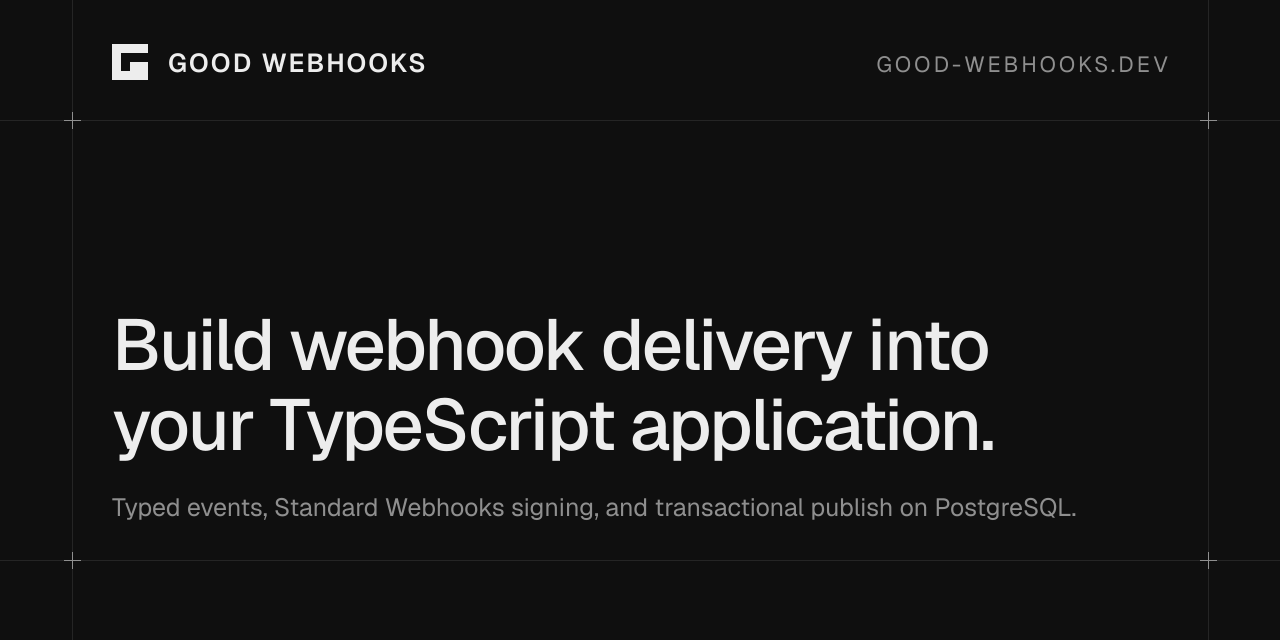
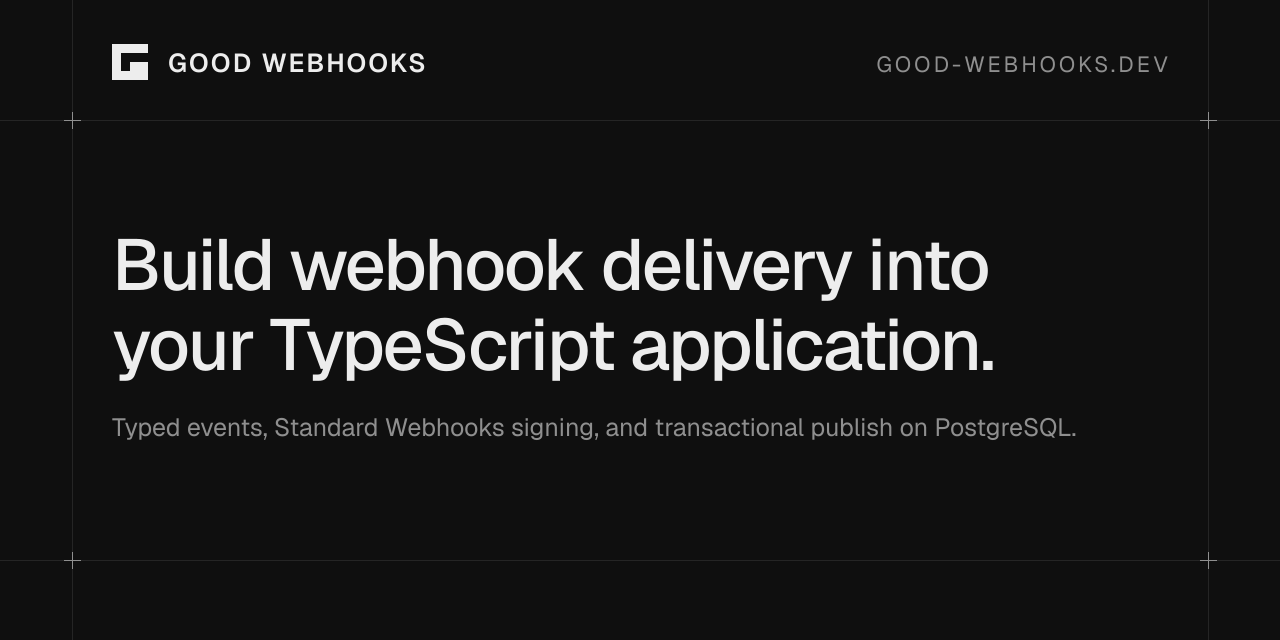
Center the social card text between the frame rules (#57)
Site cards and the GitHub social preview center the title and description between the frame rules, clear of X's bottom caption. ogRevision moves to 3 so platforms fetch the new cards.

diff --git a/apps/docs/scripts/build-social.ts b/apps/docs/scripts/build-social.ts
@@ -2,7 +2,7 @@
  * Draws the repository's GitHub social preview, `.github/social-preview.png`, at GitHub's
  * recommended 1280 by 640: the same framed card as the site's social images (`lib/og.tsx`),
  * with hairline rails and rules, crosshairs where they cross, the mark and wordmark, then the
- * tagline. GitHub has no API for this image, so upload the file under Settings, General, Social
+ * tagline centered between the rules. GitHub has no API for this image, so upload the file under Settings, General, Social
  * preview. Run with `pnpm build:social`; text uses Geist when installed.
  */
 import { writeFile } from 'node:fs/promises'
@@ -18,6 +18,8 @@ const left = 72
 const right = width - 72
 const top = 120
 const bottom = height - 80
+// First tagline baseline that centers the tagline and description between the rules.
+const baseline = (top + bottom) / 2 - 50
 
 /** The tagline on two lines, broken at the word nearest its middle. */
 function twoLines(text: string): [string, string] {
@@ -32,7 +34,7 @@ function twoLines(text: string): [string, string] {
 }
 
 const [first, second] = twoLines(site.description)
-// The same description as the site's root social card, app/opengraph-image.tsx.
+// The same description as the site's root social card, app/og/image.png/route.tsx.
 const description =
   'Typed events, Standard Webhooks signing, and transactional publish on PostgreSQL.'
 
@@ -47,10 +49,10 @@ const svg = `<svg xmlns="http://www.w3.org/2000/svg" width="${width}" height="${
   <text x="${left + 96}" y="72" font-family="${sans}" font-size="26" font-weight="600" letter-spacing="2" fill="${colors.ink}">${site.name.toUpperCase()}</text>
   <text x="${right - 40}" y="72" text-anchor="end" font-family="${sans}" font-size="22" letter-spacing="3" fill="${colors.mark}">${new URL(site.url).host.toUpperCase()}</text>
   <text font-family="${sans}" font-size="72" font-weight="500" letter-spacing="-2" fill="${colors.ink}">
-    <tspan x="${left + 40}" y="${bottom - 190}">${first}</tspan>
-    <tspan x="${left + 40}" y="${bottom - 110}">${second}</tspan>
+    <tspan x="${left + 40}" y="${baseline}">${first}</tspan>
+    <tspan x="${left + 40}" y="${baseline + 80}">${second}</tspan>
   </text>
-  <text x="${left + 40}" y="${bottom - 44}" font-family="${sans}" font-size="25" fill="${colors.mark}">${description}</text>
+  <text x="${left + 40}" y="${baseline + 146}" font-family="${sans}" font-size="25" fill="${colors.mark}">${description}</text>
 </svg>`
 
 const png = await sharp(Buffer.from(svg)).png().toBuffer()

diff --git a/apps/docs/lib/og.tsx b/apps/docs/lib/og.tsx
@@ -8,7 +8,7 @@ export const ogSize = { width: 1200, height: 630 }
  * Part of every card URL. X, LinkedIn, and Slack cache card images by URL for days, so bump this
  * whenever the card design changes or they keep showing the old one.
  */
-export const ogRevision = 2
+export const ogRevision = 3
 
 const line = '#252525'
 const mute = '#8f8f8f'
@@ -52,8 +52,9 @@ function Plus({ x, y }: { x: number; y: number }) {
 
 /**
  * A monochrome social card in the site's frame: hairline rails and rules with crosshairs where
- * they cross, the mark and wordmark, then the title. No version number: platforms cache these
- * images for weeks.
+ * they cross, the mark and wordmark, then the title centered between the rules. X overlays the
+ * page title along the bottom edge, so text stays clear of it. No version number: platforms cache
+ * these images for weeks.
  */
 export function ogImage({ title, description }: { title: string; description?: string }) {
   const left = 64
@@ -143,10 +144,11 @@ export function ogImage({ title, description }: { title: string; description?: s
           position: 'absolute',
           left: left + 40,
           right: ogSize.width - right + 40,
-          top: top + 56,
-          bottom: ogSize.height - bottom + 48,
+          top: top + 40,
+          bottom: ogSize.height - bottom + 40,
           display: 'flex',
           flexDirection: 'column',
+          justifyContent: 'center',
         }}
       >
         <span
@@ -155,7 +157,6 @@ export function ogImage({ title, description }: { title: string; description?: s
             fontWeight: 600,
             lineHeight: 1.08,
             letterSpacing: -1.5,
-            marginTop: 'auto',
           }}
         >
           {title}
